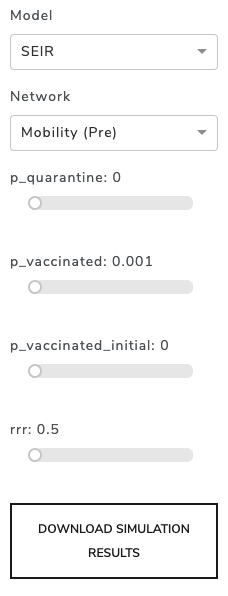
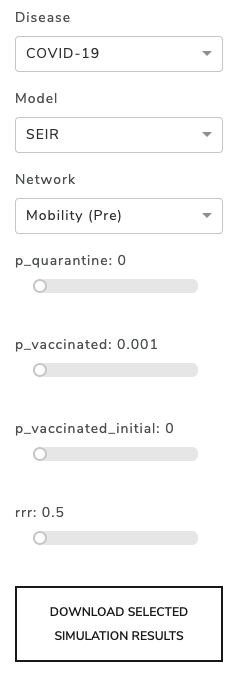
Updated help

diff --git a/app/app/app/assets/markdown/help.md b/app/app/app/assets/markdown/help.md
@@ -1,52 +1,52 @@
-# Welcome to EpiSim...
-... the web application that makes epidemic simulations accessible.
+# Welcome to EpiSim
 
-To get the most out of the app, have a look at the following to see how to use it.
+To get the most out of the app, have a look at the following to learn how to 
+use it.
 
 ---
 
 ## Control bar
 ![Help control >](/assets/img/help-control.png)
-The control bar on the left side of the page is where you can select the type 
-of model and network you want to simulate, and set the appropriate parameters.
+The control bar on the left side of the page is where you can select the 
+disease, model, and network you want to simulate, and set the appropriate 
+parameters.
 
-Most importantly, you can select one of the provided models from the `Model` 
-dropdown list. To find out more about the different models, have a look at the 
-[models page](/models).
-
-You can also select a different human contact network from the `Network` dropdown.
-These models don't give you access to more parameters but they make different
-assumptions about how individuals in the epidemic simulation interact with each other.
-Again, you can find out more details on the [network page](/networks).
+To find out more about the different models, have a look at the 
+[models page](/models). The different human contact networks from the 
+`Network` dropdown. don't give you access to more parameters,
+but they make different assumptions about how individuals in the epidemic 
+simulation interact with each other. Find out more on the 
+[network page](/networks).
 
 Depending on which model you selected, you can further set up to four parameters.
 
 1. `p_quarantine` (available for SEIR_Q, SEIVR_Q): This parameter is available 
-   for models that implement a quarantine and describes the probability with which 
-   the connection between a susceptible individual and an infected individual is 
-   removed when the infected individual becomes symptomatic.
+   for models that implement a quarantine. It describes the probability with 
+   which the connection between susceptible and infected individuals is removed 
+   when the infected individual becomes symptomatic.
 
 2. `p_vaccinated` (SEIVR, SEIVR_Q): For models that implement vaccination, this 
-   parameter sets the probability with which a susceptible, unvaccinated individual
-   receives their vaccination in any given time step. This translates in how long
+   parameter sets the probability with which susceptible, unvaccinated 
+   individuals receives their vaccination. This translates in how long
    it takes (on average) for individuals to be vaccinated. For example if
-   `p_vaccinated = 0.01`, then it takes on average `1/0.01=100` days from the
-   start of the epidemic until individuals are vaccinated.
+   `p_vaccinated = 0.01`, then it takes on average `1/0.01=100` days until 
+   individuals are vaccinated.
    
 3. `p_vaccinated_initial` (SEIVR, SEIVR_Q): This parameter lets you set 
    the fraction of vaccinated individuals at the start of the epidemic. 
    
-4. `rrr` (SEIVR, SEIVR_Q): This is the so-called relative risk reduction of 
-   the vaccine, commonly referred to as the efficacy. It determines by how much
-   the rate of infection is reduced for vaccinated individuals compared to 
-   unvaccinated individuals. For example, if the infection probability for
+4. `rrr` (SEIVR, SEIVR_Q): The relative risk reduction of the vaccine, 
+   ("efficacy") determines by how much the rate of infection is reduced through 
+   vaccination. For example, if the infection probability for
    unvaccinated individuals is `P_INFECT=0.2` and `RRR=0.5`, then the infection
    probability for vaccinated individuals is reduced to 
    `P_INFECT * (1 - RRR) = 0.2 * (1 - 0.5) = 0.1`.
    
 You can also download the simulation results as a CSV file by clicking the 
 button at the bottom of the control bar.
-   
+
+---
+
 ## Epidemic curves
 ![Help curves >](/assets/img/help-curves.png)
 The main graph next to the control bar is the main graph of the application.
@@ -62,10 +62,11 @@ In some cases it might be beneficial to zoom into the graph, which
 is possible by clicking and dragging over parts of the graph. You can also exclude
 compartments from the graph by clicking on the respective label in the legend.
 
+---
 
 ## Data table
 ![Help table >](/assets/img/help-table.png)
-Below the epidemic curves graph, you can find a data table containing some
+Below the epidemic curves graph, you can find a table containing some
 numeric results of the simulation.
 
 - `total infected` is the total fraction of the population that was 
@@ -76,36 +77,36 @@ numeric results of the simulation.
   at the end of the epidemic.
   
 - `peak time` is the time step in which the fraction of infected individuals 
-  hits its maximum
+  hits its maximum.
   
-- `peak infected` is the fraction of infected individuals at the `peak time`
+- `peak infected` is the fraction of infected individuals at the `peak time`.
 
 - `effective end` is the time step in which the number of infected individuals 
-  falls below `1%` after an initial surge over that threshold
+  falls below `1%` after an initial surge over that threshold.
 
+---
 
 ## Scatter plot
 ![Help scatter >](/assets/img/help-scatter.png)
 In the top right quadrant of the dashboard you can find a scatter plot that
 depicts how the epidemic size changes when a parameter changes.
-To compare another parameter, click on the respective tab above the figure.
 Of course, the scatter plots are only available if the currently selected model 
 includes the parameter of the scatter plot. The results displayed in this graph 
-always fix all parameters except the one to compare to whatever values are 
-currently set in the control bar. Only the parameter to be compared is varied to 
-show the results for all possible settings.
+always fix all parameters to whatever values are currently set in the control 
+bar (except for the parameter being compared). 
 As with the scatters in the epidemic curve graph, each dot per parameter setting
-represents one of many simulation runs and the spread of the dots can serve
-as a measure for uncertainty.
+represents one of many simulations, and the spread of the dots can serve as a 
+measure of uncertainty.
 
+---
 
 ## Heatmap
 ![Help heatmap >](/assets/img/help-heatmap.png)
 The heatmap in the bottom right quadrant of the dashboard is fairly similar to
-the scatter plot in that it also allows you to compare the epidemic size of the 
+the scatter plot above in that it compares the epidemic size of the 
 models for different parameter settings. However, it allows you to compare the
-results between all the models that encapsulate this parameter. For example, 
-if you select the `p_vaccinated_initial` parameter for comparisong you can
-compare it's effect on the epidemic size for all models that include 
-vaccination. As with the scatter plot, all currently selected parameter settings
+results between all the models that encapsulate the selected parameter. 
+For example, if you select the `p_vaccinated_initial` parameter for comparison
+you can compare its effect on the epidemic size for both SEIVR and SEIVR_Q. 
+As with the scatter plot, all currently selected parameter settings
 are fixed and only the parameter to compare is varied.
